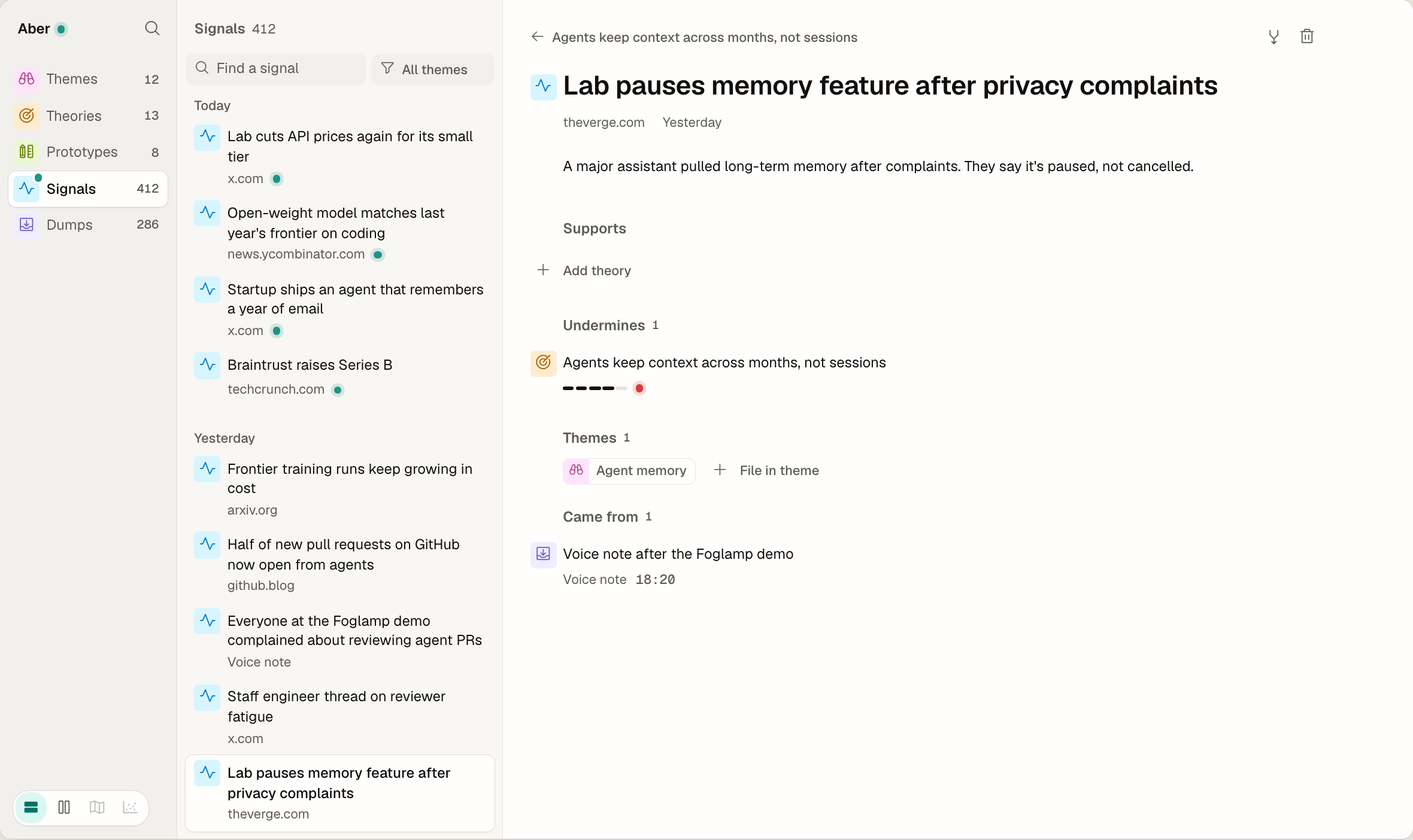
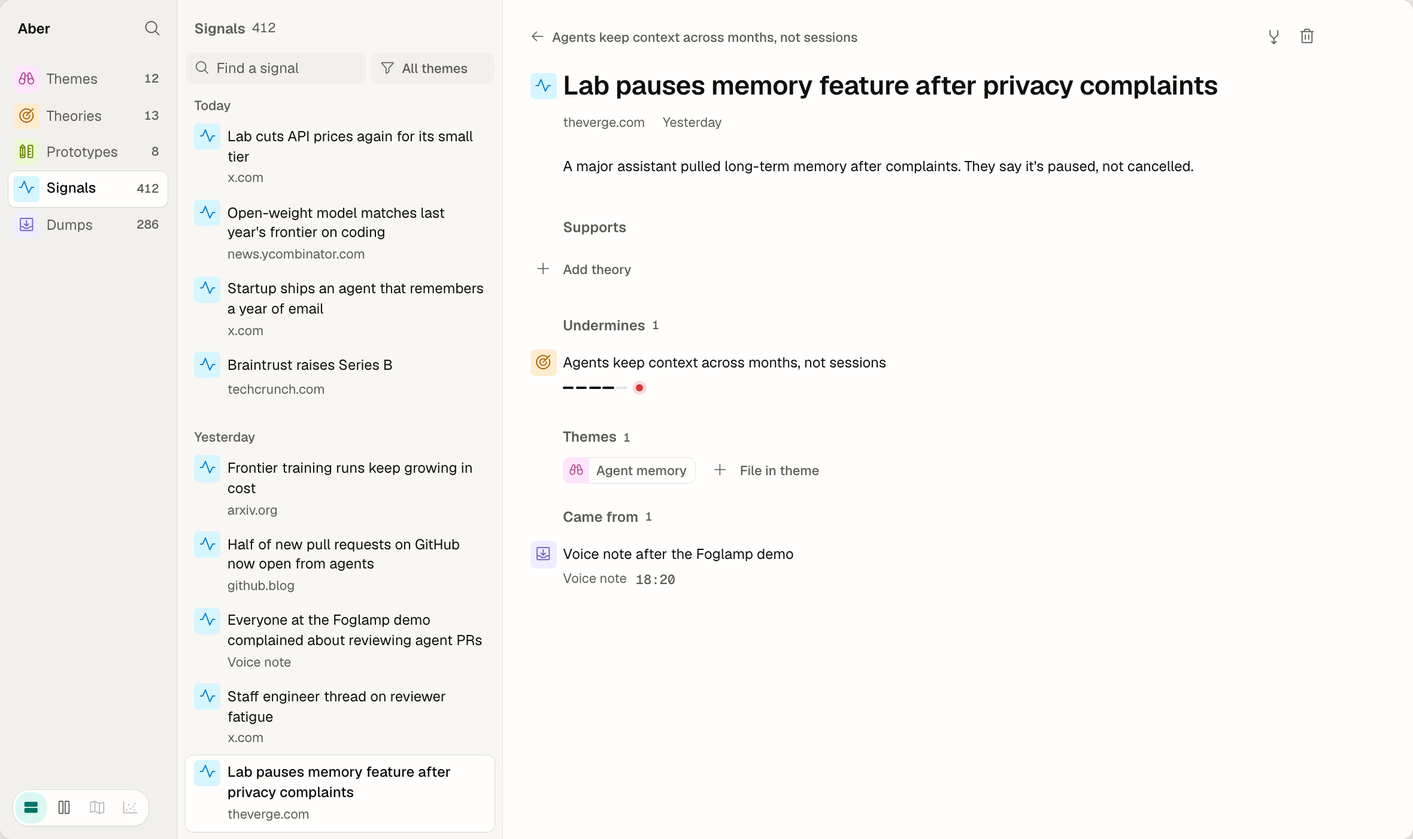
Grammar 06: drop the new dot
No new dot or pending-suggestion badge on previews; unseen activity is a
choice. Theme and prototype rows are one compact line.

diff --git a/design/grammar/06-objects/index.html b/design/grammar/06-objects/index.html
@@ -37,10 +37,17 @@
   <div class="decide-box">
     <h2>Decide on this page</h2>
     <ol>
-      <li data-pick="rows"><a href="#rows">List rows: two lines, or one</a> <span class="pick"></span><span class="why">Recommended a: theory claims and signal gists are sentences; one line cuts most of them off at 296 wide.</span></li>
+      <li data-pick="fresh"><a href="#fresh">Unseen activity: nothing on objects, unread weight, or text</a> <span class="pick"></span><span class="why">Recommended a: Briefing home already lists what arrived since you last looked; repeating it on every object adds a mark you don't act on.</span></li>
       <li data-pick="peek"><a href="#peek">Peek: essentials and relations, or essentials only</a> <span class="pick"></span><span class="why">Recommended a: a peek should answer "what is this tied to" without costing your place.</span></li>
       <li data-pick="full"><a href="#full">Full view: prose first, or a fields table</a> <span class="pick"></span><span class="why">Recommended a: the key line under the title carries the same values with no labels; you called the label table noisy (DI-010).</span></li>
     </ol>
+    <h2 class="decided-h">Decided 4 Nov (Maggie)</h2>
+    <ul class="decided">
+      <li><b>Pending suggestions are not shown on previews.</b> No count or mark on rows, cards or chips; suggestions appear in the peek, the full view and Briefing home. "If we can't find a beautiful way to show it, we should not show it."</li>
+      <li><b>No jade "new" dot on objects.</b> How unseen activity shows, if at all, is choice 1.</li>
+      <li><b>Short labels are one compact line:</b> themes and prototypes show the tile, the name in ink 2 and a bare count or status glyph at the right. Sentences (theories, signals, dumps) keep two lines.</li>
+      <li><b>Signals always show Pulse</b> on their tile; kind, if shown, is text.</li>
+    </ul>
   </div>
 </div>
 
@@ -51,10 +58,12 @@
     <li><b>1 Tile:</b> the type's glyph on its tile, the same 24 tile at every level. A signal is always Pulse; its kind, if shown, is text in the key value. No type word is ever written.</li>
     <li><b>2 Name:</b> wraps (two lines in rows, three in cards, in full in a peek or full view).</li>
     <li><b>3 One key value:</b> the attribute that tells this object apart from its neighbours. A draft shows "Draft" here until accepted.</li>
-    <li><b>4 Status:</b> one mark, always directly after the key value: challenge (red) beats a pending suggestion (dashed count) beats new (jade). The peek and full view say what the mark means.</li>
+    <li><b>4 Status:</b> one quiet red mark directly after the key value, only when something needs you: a challenge, or a dump that couldn't be read. Suggestions and unseen activity are not marks.</li>
     <li><b>5 On-demand attributes:</b> the date appears at the right end of the key line on hover; the peek and full view add the rest to the key line.</li>
     <li><b>6 Attached objects:</b> tripwires and suggestions never stand alone. A mark on the host's preview, one line in its peek, a block with Dismiss | Accept in its full view.</li>
     <li><b>7 Relations:</b> the peek shows the most important one, up to three rows; the full view shows all of them, as the same rows (chips for themes). Rows remove with a minus on hover.</li>
+    <li><b>If a mark can't be shown beautifully, don't show it on the preview;</b> push it to the peek or full view.</li>
+    <li><b>Short labels are one line; sentences are two.</b> Themes and prototypes: tile, name in ink 2, a bare count or status glyph at the right. Theories, signals and dumps: name, then the key value under it.</li>
     <li><b>A row never repeats its group.</b> Prototypes grouped by status drop the status; signals and dumps grouped by day show the day only on hover.</li>
   </ol>
   <div class="anatomy" id="anatomy"></div>
@@ -64,13 +73,13 @@
   <table class="audit rank">
     <thead><tr><th>Type</th><th>Key value</th><th>Preview</th><th>On hover</th><th>Peek adds</th><th>Full adds</th><th>Removed</th></tr></thead>
     <tbody>
-      <tr><td>Theme</td><td>Theory count, or "No theories yet"</td><td>Tile, name, theory count, new</td><td>–</td><td>Signal count, new count, top 3 theories</td><td>Theories as cards, signals by day</td><td>Signal count from rows and section headers</td></tr>
-      <tr><td>Theory</td><td>Confidence</td><td>Tile, claim, confidence, one status mark</td><td>Horizon (By 2028)</td><td>Evidence balance, horizon, note (3 lines), tripwire or suggestion line, top 3 supporting signals</td><td>Confidence setter, year stepper, note, tripwire, suggestions, themes, supports, undermines, rival, follows from, leads to, prototypes</td><td>Evidence balance and prototype count from cards; pending badge and challenge dot side by side (now one slot)</td></tr>
-      <tr><td>Prototype</td><td>Status (glyph and word)</td><td>Tile, name, status</td><td>–</td><td>Body (3 lines), theories it tests</td><td>Body, tests</td><td>"Tests N"; the type-word chip; status inside status groups</td></tr>
-      <tr><td>Signal</td><td>Source</td><td>Tile, gist, source, new</td><td>Captured day</td><td>Day, note, theories it bears on</td><td>Note (or Add a note), supports, undermines, Add theory, themes, File in theme, came from</td><td>Day at rest, theme chips on rows, the word "Signal", the Source/Came from table</td></tr>
+      <tr><td>Theme</td><td>Theory count (a bare number; a ring for none)</td><td>One line: tile, name, count</td><td>–</td><td>Signal count, new count, top 3 theories</td><td>Theories as cards, signals by day</td><td>"Theories" word, signal count, the new dot, the second line</td></tr>
+      <tr><td>Theory</td><td>Confidence</td><td>Tile, claim, confidence, challenge mark</td><td>Horizon (By 2028)</td><td>Evidence balance, horizon, note (3 lines), tripwire or suggestion line, top 3 supporting signals</td><td>Confidence setter, year stepper, note, tripwire, suggestions, themes, supports, undermines, rival, follows from, leads to, prototypes</td><td>Evidence balance and prototype count from cards; the pending-suggestion badge</td></tr>
+      <tr><td>Prototype</td><td>Status (glyph; the word in peek and full)</td><td>One line: tile, name, status glyph</td><td>–</td><td>Body (3 lines), theories it tests</td><td>Body, tests</td><td>"Tests N"; the type-word chip; status inside status groups</td></tr>
+      <tr><td>Signal</td><td>Source</td><td>Tile, gist, source</td><td>Captured day</td><td>Day, note, theories it bears on</td><td>Note (or Add a note), supports, undermines, Add theory, themes, File in theme, came from</td><td>Day at rest, theme chips on rows, kind glyphs, the new dot, the word "Signal", the Source/Came from table</td></tr>
       <tr><td>Dump</td><td>Kind and time</td><td>Tile, first line, kind and time, failed</td><td>Day</td><td>Day, length, text (3 lines), signals made</td><td>Via, full text, reply, signals, drafts</td><td>"Made N"; via from everything but full; the date inside day groups</td></tr>
       <tr><td>Tripwire</td><td>Its sentence</td><td>Red dot on the host when tripped</td><td>–</td><td>One line: the sentence, or "Tripped by" the signal</td><td>The sentence, the tripping signal, Dismiss | Accept</td><td>–</td></tr>
-      <tr><td>Suggestion</td><td>What it proposes</td><td>Dashed count on the host</td><td>–</td><td>One line: the proposal</td><td>Dashed block: stance, the signal as a row, why, Dismiss | Accept</td><td>Agent and model (rare, history only)</td></tr>
+      <tr><td>Suggestion</td><td>What it proposes</td><td>Nothing (decided)</td><td>–</td><td>Dashed block: label and the signal as a row</td><td>Dashed block: label, the signal as a row, why, Dismiss | Accept</td><td>Agent and model (rare, history only)</td></tr>
     </tbody>
   </table>
   </div>
@@ -99,16 +108,19 @@
 
 <section class="jig-section wide" id="states">
   <h2>States</h2>
-  <p>One treatment per state, the same at every rung. Hover reveals dates and the Remove action; selected is the neutral raise; drafts are dashed; one status mark.</p>
+  <p>One treatment per state, the same at every rung. Hover reveals dates and the Remove action; selected is the neutral raise; drafts are dashed; the only mark is red, for a challenge. Unseen activity is choice 1.</p>
   <div class="board-wrap"><div class="st-grid" id="states-grid"></div></div>
 </section>
 
-<section class="jig-section" id="rows" data-decision="rows" data-question="1. How dense are list rows?" data-default="a Two lines">
+<section class="jig-section" id="fresh" data-decision="fresh" data-question="1. How does unseen activity show on objects, if at all?" data-default="a Nothing on objects">
+  <p class="lede">The dot meant "arrived since you last looked": a signal you haven't seen, or a theme with signals you haven't seen (design model: a signal's seen state; a theme's new count). Each window shows the Themes list and Cost of intelligence, which has 3 unseen signals.</p>
   <div class="jig-compare" style="--jig-min:100%">
-    <div class="jig-option" data-option="a Two lines"><div class="jig-label"><b>a</b> Two lines: the name wraps, the key value sits under it</div><p class="jig-note">Names up to two lines; the key value and status on the second line. Rows are 50 high.</p>
-      <div class="ob-host" data-option-stage data-ob='{"frame":"app","type":"theory","opt":{"rows":"two"}}'></div></div>
-    <div class="jig-option" data-option="b One line"><div class="jig-label"><b>b</b> One line: the name truncates, the key value at the right</div><p class="jig-note">32 high, nearly twice as many per screen; the full name is in the peek.</p>
-      <div class="ob-host" data-option-stage data-ob='{"frame":"app","type":"theory","opt":{"rows":"one"}}'></div></div>
+    <div class="jig-option" data-option="a Nothing on objects"><div class="jig-label"><b>a</b> Nothing on objects: Briefing home is where new things are shown</div><p class="jig-note">Objects look the same seen or unseen. "Aber" in the rail opens Briefing, which lists new signals by theme.</p>
+      <div class="ob-host" data-option-stage data-ob='{"frame":"app","type":"theme","opt":{"fresh":"none"}}'></div></div>
+    <div class="jig-option" data-option="b Unread weight"><div class="jig-label"><b>b</b> Unread weight, like an inbox</div><p class="jig-note">The name of an object with unseen activity is ink at 600; seen ones stay at their usual weight. No extra mark.</p>
+      <div class="ob-host" data-option-stage data-ob='{"frame":"app","type":"theme","opt":{"fresh":"weight"}}'></div></div>
+    <div class="jig-option" data-option="c Text in the key value"><div class="jig-label"><b>c</b> Text in the key value</div><p class="jig-note">"3 new" beside a theme's count, "New" after a signal's source, in ink 2.</p>
+      <div class="ob-host" data-option-stage data-ob='{"frame":"app","type":"theme","opt":{"fresh":"text"}}'></div></div>
   </div>
 </section>
 

diff --git a/design/grammar/06-objects/objects.js b/design/grammar/06-objects/objects.js
@@ -108,7 +108,6 @@
   const protosOf = t => all("prototype").filter(p => p.tests.includes(t.id));
   const followers = t => all("theory").filter(x => (x.follows || []).includes(t.id));
   const dumpsOf = s => all("dump").filter(d => d.made.includes(s.id));
-  const pendingOf = o => (SUG[o.id] || []).length;
 
   /* ═══ Atoms ═══════════════════════════════════════════════════════════════════ */
   const esc = s => String(s).replace(/"/g, "&quot;");
@@ -131,7 +130,7 @@
   const keyOf = (o, compact = false) => {
     if (o.draft) return `<span>Draft</span>`;
     return ({
-      theme: () => { const n = theoriesOf(o).length; return compact ? (n ? `<span class="ob-n" aria-label="${plural(n, "theory", "theories")}">${n}</span>` : `<span class="ob-ring" role="img" aria-label="No theories yet"></span>`) : `<span>${n ? plural(n, "theory", "theories") : "No theories yet"}</span>`; },
+      theme: () => { const n = theoriesOf(o).length; return compact ? (n ? `<span class="ob-n" aria-label="${plural(n, "theory", "theories")}">${n}</span>` : "") : `<span>${n ? plural(n, "theory", "theories") : "No theories yet"}</span>`; },
       theory: () => o.retired ? `<span>${compact ? "Retired" : `Retired, ${o.retired.toLowerCase()}`}</span>` : conf(o.c),
       prototype: () => compact ? `<span class="ob-st" role="img" aria-label="${STATUS[o.status][0]}" title="${STATUS[o.status][0]}"><i class="ph ph-${STATUS[o.status][1]}" aria-hidden="true"></i></span>` : `<span class="ob-st"><i class="ph ph-${STATUS[o.status][1]}" aria-hidden="true"></i>${STATUS[o.status][0]}</span>`,
       signal: () => `<span class="ob-src">${o.src}</span>`,
@@ -141,18 +140,21 @@
   // Revealed on hover: the object's date
   const whenOf = o => o.kind === "signal" || o.kind === "dump" ? DAYS[o.day] : o.kind === "theory" && !o.retired ? `By ${o.by}` : "";
   // 4. Status: the single most urgent mark. Challenge > pending suggestion > new. A failed dump is "bad", so red.
-  const statusOf = o => o.challenge ? dot("neg", "Challenged") : pendingOf(o) ? `<span class="ob-pend" role="img" aria-label="${plural(pendingOf(o), "pending suggestion", "pending suggestions")}">${pendingOf(o)}</span>`
-    : o.failed ? dot("neg", "Couldn't read") : o.fresh ? dot("new", "New") : "";
+  // Status: one quiet red mark, only for what needs you: a challenge, or a dump that couldn't be read.
+  // Not marks (Maggie, 4 Nov): pending suggestions (peek, full view and Briefing only) and "new" (see the unseen-activity choice).
+  const statusOf = o => o.challenge ? dot("neg", "Challenged") : o.failed ? dot("neg", "Couldn't read") : "";
+  // Unseen activity, rendered for every object and shown only by the page's choice (data-fresh on a window): weight, text or nothing
+  const freshOf = o => o.kind === "theme" && o.fresh ? `${o.fresh} new` : o.kind === "signal" && o.fresh ? "New" : "";
   // 5. On-demand attributes: label + value, so the meta line (prose-first) and the fields table come from one list
   const attrsOf = (o, rung) => {
     const full = rung === "full";
     const A = ({
-      theme: () => [["Theories", keyOf(o)], ["Signals", `<span>${plural(o.signals, "signal", "signals")}</span>`], o.fresh && ["New", `<span>${o.fresh} new</span>`]],
+      theme: () => [["Theories", keyOf(o)], ["Signals", `<span>${plural(o.signals, "signal", "signals")}</span>`], o.fresh && ["New", `<span class="ob-fresh">${o.fresh} new</span>`]],
       theory: () => o.draft ? [["Status", keyOf(o)], ["Evidence", `<span class="ob-bal">+${ups(o)} −${downs(o)}</span>`], ["Happens by", full ? stepper(o.by) : `<span>By ${o.by}</span>`]]
         : o.retired ? [["Status", keyOf(o)], ["Evidence", `<span class="ob-bal">+${ups(o)} −${downs(o)}</span>`]]
         : [["Confidence", full ? setter(o.c) : conf(o.c)], ["Evidence", `<span class="ob-bal">+${ups(o)} −${downs(o)}</span>`], ["Happens by", full ? stepper(o.by) : `<span>By ${o.by}</span>`]],
       prototype: () => [["Status", keyOf(o)]],
-      signal: () => [["Source", keyOf(o)], ["Captured", `<span>${DAYS[o.day]}</span>`]],
+      signal: () => [["Source", keyOf(o)], ["Captured", `<span>${DAYS[o.day]}</span>`], o.fresh && ["New", `<span class="ob-fresh">New</span>`]],
       dump: () => [["Kind", `<span>${o.kw}${o.len ? `, ${o.len}` : ""}</span>`], ["Captured", `<span>${DAYS[o.day]}</span>${mono(o.time)}`], full && ["Via", `<span>${o.via}</span>`]],
     })[o.kind]().filter(Boolean);
     return A;
@@ -166,9 +168,14 @@
      The row and the card are the same grid: [tile][name][status-free] / [ ][key value … when][status]. The card is the row on a raised surface,
      with the name at card weight. A row inside a group drops whatever its group header already says (omit: "key" | "when"). */
   const preview = (o, { as = "row", act = "open", cur = null, omit = "", rm = "", cls = "", host = "" } = {}) => {
-    const one = /\bone\b/.test(cls);
+    const label = o.kind === "theme" || o.kind === "prototype";   // short labels: one line, compact key at the right
+    const one = label || /\bone\b/.test(cls);
+    if (one && !/\bone\b/.test(cls)) cls = `${cls} one`.trim();
+    if (label) cls = `${cls} label`;
+    if (o.fresh) cls = `${cls} unseen`;
     const k = omit.includes("key") ? "" : keyOf(o, one), w = omit.includes("when") || one ? "" : whenOf(o), st = statusOf(o);
-    const line = k || w || st ? `<span class="kv">${k}${st ? `<span class="st">${st}</span>` : ""}${w ? `<span class="when">${w}</span>` : ""}</span>` : "";
+    const f = freshOf(o) ? `<span class="ob-fresh">${freshOf(o)}</span>` : "";
+    const line = k || w || st || f ? `<span class="kv">${one ? f + k : k + f}${st ? `<span class="st">${st}</span>` : ""}${w ? `<span class="when">${w}</span>` : ""}</span>` : "";
     const attr = act === "sel" ? `data-sel="${o.id}"` : act === "pane" ? `data-pane="${o.id}"` : act === "none" ? "" : `data-open="${o.id}"`;
     return `<div class="ob-${as}${o.draft ? " draft" : ""}${o.retired ? " retired" : ""}${line ? "" : " solo"}${cls ? ` ${cls}` : ""}"${cur === o.id ? ' aria-current="true"' : ""} data-id="${o.id}"${host ? ` data-host="${host}"` : ""}>
       ${tileOf(o)}<button type="button" class="nm" ${attr}>${o.name}</button>${line}${rm ? `<span class="rm">${ib("minus", rm, 'class="nv-ib sm"')}</span>` : ""}</div>`;

diff --git a/design/grammar/06-objects/frames.js b/design/grammar/06-objects/frames.js
@@ -9,7 +9,7 @@
   const TOTAL = { signal: 412, dump: 286 };
   const OLDER = { signal: [["October", 288], ["September", 109]], dump: [["October", 201], ["September", 78]] };
   const STATUS = [["building", "Building"], ["idea", "Idea"], ["built", "Built"], ["shelved", "Shelved"]];
-  const OPT = { rows: "two", peek: "rel", full: "prose" };
+  const OPT = { fresh: "none", peek: "rel", full: "prose" };
   const ib = (icon, label, attr = "", key = "") => `<button type="button" class="nv-ib" aria-label="${label}" data-tip="${label}"${key ? ` data-key="${key}"` : ""} ${attr}><i class="ph ph-${icon}" aria-hidden="true"></i></button>`;
   const dot = (kind, label) => `<span class="nv-dot ${kind}" role="img" aria-label="${label}"></span>`;
 
@@ -19,13 +19,13 @@
     `<button type="button" data-view="${v}" aria-pressed="${v === cur}" aria-label="${l}" data-tip="${l}" data-key="${k}"${v === "atlas" || v === "timeline" ? ' aria-disabled="true"' : ""}><i class="ph${v === cur ? "-fill" : ""} ph-${i}" aria-hidden="true"></i></button>`).join("")}</div>`;
   const countOf = t => TOTAL[t] ?? all(t).filter(o => !o.retired).length;
   const rail = s => `<aside class="nv-rail">
-      <div class="nv-brand"><button type="button" class="nv-home" data-home aria-current="${s.type === "home"}">Aber${dot("new", "New since yesterday")}</button>${ib("magnifying-glass", "Find", "", "⌘K")}</div>
-      <nav class="nv-types" aria-label="Types">${RAIL.map(t => `<button type="button" class="nv-type" data-go="${t}" aria-current="${s.type === t}"><span class="gw">${tile(t, ICON[t])}${t === "signal" ? dot("new", "New since yesterday") : ""}</span><span class="nm">${NAMES[t][0]}</span><span class="nv-n">${countOf(t)}</span></button>`).join("")}</nav>
+      <div class="nv-brand"><button type="button" class="nv-home" data-home aria-current="${s.type === "home"}">Aber</button>${ib("magnifying-glass", "Find", "", "⌘K")}</div>
+      <nav class="nv-types" aria-label="Types">${RAIL.map(t => `<button type="button" class="nv-type" data-go="${t}" aria-current="${s.type === t}"><span class="gw">${tile(t, ICON[t])}</span><span class="nm">${NAMES[t][0]}</span><span class="nv-n">${countOf(t)}</span></button>`).join("")}</nav>
       ${switcher("default")}</aside>`;
 
   /* ── Item list (second sidebar): the new rows. A row never repeats its group header. ── */
   const list = s => {
-    const t = s.type, cur = s.sel[t], q = s.q.toLowerCase(), one = s.opt.rows === "one";
+    const t = s.type, cur = s.sel[t], q = s.q.toLowerCase(), one = false;
     const hit = o => (!q || o.name.toLowerCase().includes(q)) && (!s.tf || (o.themes || []).includes(s.tf));
     const r = (o, omit = "") => row(o, { act: "sel", cur, omit, cls: one ? "one" : "" });
     const group = (label, rows, n) => rows.length ? `<div class="ob-group">${label ? `<div class="ob-glabel"><span>${label}</span>${n != null ? `<span class="ob-n">${n}</span>` : ""}</div>` : ""}${rows.join("")}</div>` : "";
@@ -34,7 +34,7 @@
     const filter = () => `<label class="nv-filter"><i class="ph ph-funnel" aria-hidden="true"></i><select data-tf aria-label="Filter by theme"><option value="">All themes</option>${all("theme").filter(o => !o.draft).map(o => `<option value="${o.id}"${s.tf === o.id ? " selected" : ""}>${o.name}</option>`).join("")}</select></label>`;
     let tools = "", body = "", addBtn = true;
     if (t === "theme") {
-      body = group("", all("theme").filter(o => !o.draft).sort((a, b) => (b.fresh ? 1 : 0) - (a.fresh ? 1 : 0)).map(o => r(o))) + group("Drafts", all("theme").filter(o => o.draft).map(o => r(o)));
+      body = group("", all("theme").filter(o => !o.draft).sort((a, b) => (b.fresh ? 1 : 0) - (a.fresh ? 1 : 0)).map(o => r(o))) + group("Drafts", all("theme").filter(o => o.draft).map(o => r(o, "key")));
     } else if (t === "theory") {
       tools = search("Find a theory") + filter();
       const ts = all("theory").filter(hit);
@@ -63,16 +63,16 @@
     const home = s.type === "home", o = !home && s.sel[s.type] && O[s.sel[s.type]];
     const cols = home ? "var(--nv-rail-w) minmax(0, 1fr)" : "var(--nv-rail-w) var(--list-w) minmax(0, 1fr)";
     const main = o ? full(o, { layout: s.opt.full, back: backBtn(s) }) : digest();
-    return `<div class="nv ctl ob-win" data-v="A" data-rows="${s.opt.rows}" style="grid-template-columns:${cols}">${rail(s)}${home ? "" : list(s)}<main class="nv-main"><div class="nv-scroller">${main}</div></main></div>`;
+    return `<div class="nv ctl ob-win" data-v="A" data-fresh="${s.opt.fresh}" style="grid-template-columns:${cols}">${rail(s)}${home ? "" : list(s)}<main class="nv-main"><div class="nv-scroller">${main}</div></main></div>`;
   };
   // Columns, as it stays: dump and signal strips, Themes (navigation), Theories (cards), the docked pane. Its objects are the new previews.
   const colFrame = s => {
     const th = O[s.colTheme], ts = A.all("theory").filter(t => t.themes.includes(th.id) && !t.retired);
     const pane = s.pane && O[s.pane];
-    return `<div class="nv ctl ob-win ob-columns" data-rows="${s.opt.rows}" style="grid-template-columns:36px 36px var(--colnav-w, 230px) var(--list-w) minmax(0, 1fr)">
+    return `<div class="nv ctl ob-win ob-columns" data-fresh="${s.opt.fresh}" style="grid-template-columns:36px 36px var(--colnav-w, 230px) var(--list-w) minmax(0, 1fr)">
       <div class="ob-strip">${tile("dump", ICON.dump)}</div><div class="ob-strip">${tile("signal", ICON.signal)}</div>
       <section class="ob-colnav"><div class="ob-colhead">${tile("theme", ICON.theme)}<span>Themes</span></div>
-        <div class="ob-rows">${A.all("theme").filter(o => !o.draft).map(o => row(o, { act: "sel", cur: s.colTheme, cls: "one" })).join("")}</div></section>
+        <div class="ob-rows">${A.all("theme").filter(o => !o.draft).map(o => row(o, { act: "sel", cur: s.colTheme })).join("")}</div></section>
       <section class="ob-colist"><div class="ob-colhead">${tile("theory", ICON.theory)}<span>Theories</span><span class="ob-n">${ts.length}</span></div>
         <div class="ob-cards col">${ts.map(t => card(t, { act: "pane", cur: s.pane })).join("")}</div></section>
       <aside class="ob-pane">${pane ? full(pane, { layout: s.opt.full, where: "pane" }) : ""}</aside>

diff --git a/design/grammar/06-objects/objects.css b/design/grammar/06-objects/objects.css
@@ -18,10 +18,7 @@
 
 /* Marks: one status slot, at the end of the key line */
 .ob-dot { display: block; width: 7px; height: 7px; border-radius: 50%; flex: none; }
-.ob-dot.new { background: var(--new); box-shadow: 0 0 0 3px color-mix(in oklab, var(--new) 18%, transparent); }
 .ob-dot.neg { background: var(--neg-dot); box-shadow: 0 0 0 3px color-mix(in oklab, var(--neg-dot) 18%, transparent); }
-.ob-pend { display: inline-grid; place-items: center; min-width: 18px; height: 18px; padding: 0 5px; border-radius: var(--r-pill); outline: 1px dashed var(--ink-3); outline-offset: -1px;
-  font: 500 var(--fs-small)/1 var(--font); color: var(--ink); font-variant-numeric: tabular-nums; }
 .ob-conf { display: inline-flex; gap: 2px; align-items: center; }
 .ob-conf i { display: block; width: 10px; height: 3px; border-radius: 2px; background: var(--hairline-strong); }
 .ob-conf i[data-on] { background: var(--ink); }
@@ -68,8 +65,20 @@
 .ob-row:has(> .rm):is(:hover, .is-hover, :focus-within) .when { visibility: hidden; }
 @media (hover: none) { .ob-row > .rm { opacity: 1; } }
 
+/* Short labels (themes, prototypes): one line, the name in ink 2 like a nav item; ink and 500 when current. Inside a peek or full view they read as names. */
+.ob-row.label > .nm { color: var(--ink-2); }
+.ob-row.label[aria-current="true"] > .nm, :is(.ob-peek, .ob-full) .ob-row.label > .nm { color: var(--ink); }
+.ob-row.label > .kv { color: var(--ink-2); }
+.ob-row.label > .kv .ob-n { font-size: var(--fs-small); }
+/* Unseen activity: hidden unless the window's choice shows it (data-fresh) */
+.ob-fresh { display: none !important; }
+[data-fresh="text"] .ob-fresh { display: inline !important; }
+[data-fresh="weight"] .unseen > .nm { font-weight: 600; color: var(--ink); }
+
 /* The card: the row, raised, with the name at card weight and up to three lines */
 .ob-card { padding: var(--inset-card); border-radius: var(--r-control); background: var(--surface); box-shadow: var(--sh-raised); row-gap: var(--gap-tight); }
+.ob-card.one { grid-template-columns: var(--tile) minmax(0, 1fr) auto; grid-template-areas: "g nm kv"; align-items: center; }
+.ob-card.one > .g { margin-top: 0; }
 .ob-card > .nm { font-weight: 600; -webkit-line-clamp: 3; text-wrap: pretty; }
 .ob-card:is(:hover, .is-hover, [aria-expanded="true"]) { background: var(--surface-hover); }
 .ob-card[aria-current="true"] { box-shadow: var(--sel); }

diff --git a/design/grammar/06-objects/page.js b/design/grammar/06-objects/page.js
@@ -43,7 +43,7 @@
   const states = $("#states-grid");
   if (states) {
     const S = [
-      ["Rest", "t6", ""], ["Hover", "t6", "hover"], ["Selected, current", "t6", "cur"], ["Draft", "t11", ""], ["New", "s1", ""], ["Challenged", "t4", ""], ["Pending suggestion", "t1", ""],
+      ["Rest", "t6", ""], ["Hover", "t6", "hover"], ["Selected, current", "t6", "cur"], ["Draft", "t11", ""], ["Challenged", "t4", ""], ["Pending suggestion: peek and full only", "t1", ""],
     ];
     const head = ["", "List row", "Card", "Chip", "Peek", "Full"].map(h => `<div class="st-h">${h}</div>`).join("");
     const headOnly = o => { const el = document.createElement("div"); el.innerHTML = full(o, {}); const art = el.firstElementChild; art.querySelector(".ob-top")?.remove();
@@ -114,7 +114,7 @@
   dlg?.addEventListener("click", e => { if (e.target === dlg || e.target.closest("[data-big-close]")) dlg.close(); });
 
   /* ── Hero follows the picks; the decide box shows them ── */
-  const MAP = { rows: ["rows", { "a Two lines": "two", "b One line": "one" }], peek: ["peek", { "a Essentials and relations": "rel", "b Essentials only": "own" }], full: ["full", { "a Prose first": "prose", "b Fields table": "fields" }] };
+  const MAP = { fresh: ["fresh", { "a Nothing on objects": "none", "b Unread weight": "weight", "c Text in the key value": "text" }], peek: ["peek", { "a Essentials and relations": "rel", "b Essentials only": "own" }], full: ["full", { "a Prose first": "prose", "b Fields table": "fields" }] };
   addEventListener("load", () => {
     const d = document.querySelector(".jig-dock"), h = document.querySelector(".jig-head"); if (d && h) h.append(d);
     const page = document.body.dataset.jig;

diff --git a/design/grammar/06-objects/page.css b/design/grammar/06-objects/page.css
@@ -110,3 +110,5 @@ h3.sub { margin: 28px 0 8px; font-size: 14px; font-weight: 650; }
   .an-row, .an-card { width: auto; max-width: calc(100% + 12px); }
   .ob-peek.static { width: 100%; }
 }
+.decide-box .decided-h { margin-top: 14px; }
+.decide-box .decided { margin: 0; padding-left: 20px; display: grid; gap: 4px; color: #3d3a34; font-size: 13px; }

diff --git a/design/grammar/RULES.md b/design/grammar/RULES.md
@@ -313,7 +313,7 @@ Every object follows one anatomy and appears at three rungs: a **preview** where
 | 1 Tile | Type glyph on its 24 tile, the same size for every row, line and header within one peek or full view; a signal is always Pulse (kind, if shown, is text in the key value). No type word. | ● | ● | ● (flush) | ● | ● |
 | 2 Name | List name 13/400; card and peek 13/600; title 24/600 | 2 lines | 3 lines | 1 line | In full | In full |
 | 3 Key value | The one attribute that tells it from its neighbours; "Draft" for drafts | ● | ● | – | ● | ● (editable) |
-| 4 Status | One mark, directly after the key value: challenge (red dot) > pending suggestion (dashed count) > new (jade dot) | ● | ● | – | ● | ● |
+| 4 Status | One quiet red mark directly after the key value, only when something needs you: a challenge, or a dump that couldn't be read. Pending suggestions and "new" are not marks (decided 4 Nov) | ● | ● | – | ● | ● |
 | 5 On demand | The date, at the right end of the key line on hover; the rest of the key line in peek and full | Hover | Hover | – | ● | ● |
 | 6 Attached | Tripwire, suggestions: a mark on the host's preview, one line in its peek, a block with Dismiss \| Accept in full | Mark | Mark | – | Line | Block |
 | 7 Relations | The most important relation, as preview rows; all relations in full | – | – | – | Up to 3 | All |
@@ -326,15 +326,20 @@ Every object follows one anatomy and appears at three rungs: a **preview** where
 
 | Type | Key value | Preview | On hover | Peek adds | Full adds |
 | --- | --- | --- | --- | --- | --- |
-| Theme | Theory count ("No theories yet") | Tile, name, theory count, new | – | Signal count, new count, top 3 theories | Theories as cards, signals by day |
+| Theme | Theory count (bare number) | One line: tile, name in ink 2, count at the right | – | Signal count, new count, top 3 theories | Theories as cards, signals by day |
 | Theory | Confidence | Tile, claim, confidence, one status mark | By year | Evidence balance, horizon, note (3 lines), tripwire or suggestion line, top 3 supports | Confidence setter, year stepper, note, tripwire, suggestions, themes, supports, undermines, rival, follows from, leads to, prototypes |
-| Prototype | Status (glyph and word) | Tile, name, status | – | Body (3 lines), theories it tests | Body, tests |
-| Signal | Source | Tile, gist, source, new | Captured day | Day, note, theories it bears on | Note, supports, undermines, themes, came from |
+| Prototype | Status (glyph; the word in peek and full) | One line: tile, name in ink 2, status glyph at the right | – | Body (3 lines), theories it tests | Body, tests |
+| Signal | Source | Tile (Pulse), gist, source | Captured day | Day, note, theories it bears on | Note, supports, undermines, themes, came from |
 | Dump | Kind and time | Tile, first line, kind and time, failed | Day | Day, length, text (3 lines), signals made | Via, text, reply, signals, drafts |
 | Tripwire | Its sentence | Red dot on the host when tripped | – | One line (red when tripped) | Sentence, tripping signal, Dismiss \| Accept |
-| Suggestion | What it proposes | Dashed count on the host | – | One line | Dashed block: stance, signal row, why, Dismiss \| Accept |
+| Suggestion | What it proposes | Nothing (decided: not on previews) | – | Dashed block: label, the signal as a row | Dashed block: label, the signal as a row, why, Dismiss \| Accept; no Sparkle inside it |
 
-**Removed as unnecessary metadata:** evidence balance and prototype count from theory cards (to the peek); signal count from theme rows and section headers; dates at rest; theme chips on signal rows; "Tests N" and "Made N"; type words and type-label chips ("Signal", "Building" chip); "via" outside the full view; the label/value table (choice open); the separate pending badge and challenge dot side by side (one status slot).
+7. **If a mark can't be shown beautifully, don't show it on the preview;** push it to the peek or full view (Maggie, 4 Nov).
+8. **Short labels are one line; sentences are two.** Themes and prototypes: tile, name in ink 2 (ink and 500 when current), a bare count or status glyph at the right, row 32. Theories, signals and dumps: the name, then the key value under it.
+9. **One glyph column.** Within a peek or full view every leading tile (title, relation rows, attached lines and blocks) is 24 and sits in one column; every text starts on one edge. Chips and cards keep their own tile inside them.
+10. **Unseen activity** (the old jade dot): open in the 06 jig. Recommended: nothing on objects; Briefing home shows what's new. Alternatives: unread weight (ink 600 name), or "3 new" / "New" as ink 2 text in the key value.
+
+**Removed as unnecessary metadata:** evidence balance and prototype count from theory cards (to the peek); signal count from theme rows and section headers; dates at rest; theme chips on signal rows; "Tests N" and "Made N"; type words and type-label chips ("Signal", "Building" chip); "via" outside the full view; the label/value table (choice open); the pending-suggestion badge and the jade new dot (decided 4 Nov); kind glyphs on signal tiles; "theories" after a theme's count.
 
 ## 10 States — PROPOSED (jig `10-states/`)
 

diff --git a/design/grammar/PRIOR-DECISIONS.md b/design/grammar/PRIOR-DECISIONS.md
@@ -385,3 +385,9 @@ Compiled 4 Nov 2026 from everything on this branch before the grammar jigs. Read
 4 Nov 2026 (Maggie, 05-controls): the secondary button is white with a hairline (surface, the chip's hairline, the button shadow); text fields are filled (a sunk well, no edge; surface + hairline and the ring on focus); the one destructive confirmation (Delete dump) is ink like every primary, red stays for challenge and down. The anatomy, seven-state matrix, motion and label rules in RULES.md section 05 are the default on every grammar page.
 
 4 Nov 2026 (Maggie): signals always show the signal glyph (Pulse) on their tile, never a kind glyph; kind, if shown, is text in the key value. Supersedes the DI-010 "kind glyph in the header" rule. Within one peek or full view every tile is the same size (24).
+
+4 Nov 2026 (Maggie): no jade 'new' dot on objects anywhere; it reads as ugly and its meaning is unclear. Unseen activity is shown another way (see 06 choice) or not on objects at all.
+
+4 Nov 2026 (Maggie): no dashed-circle count badge for pending suggestions; its meaning was unclear and it looks ugly. Shown another way (see 06 choice); decided: not shown on previews at all; only in peek, full view and Briefing. Her principle: "If we can't find a beautiful way to show it, we should not show it."
+
+4 Nov 2026 (Maggie, 06 before/after): theme list rows go back to the compact one-line design: the theme's glyph on its tile, the name in ink 2 (ink and 500 when current), the theory count as a bare number at the right. No "theories" word, no dot, no second line. Short-label rows (prototypes) follow the same form; two-line rows only where the name is a sentence (theories, signals, dumps).
